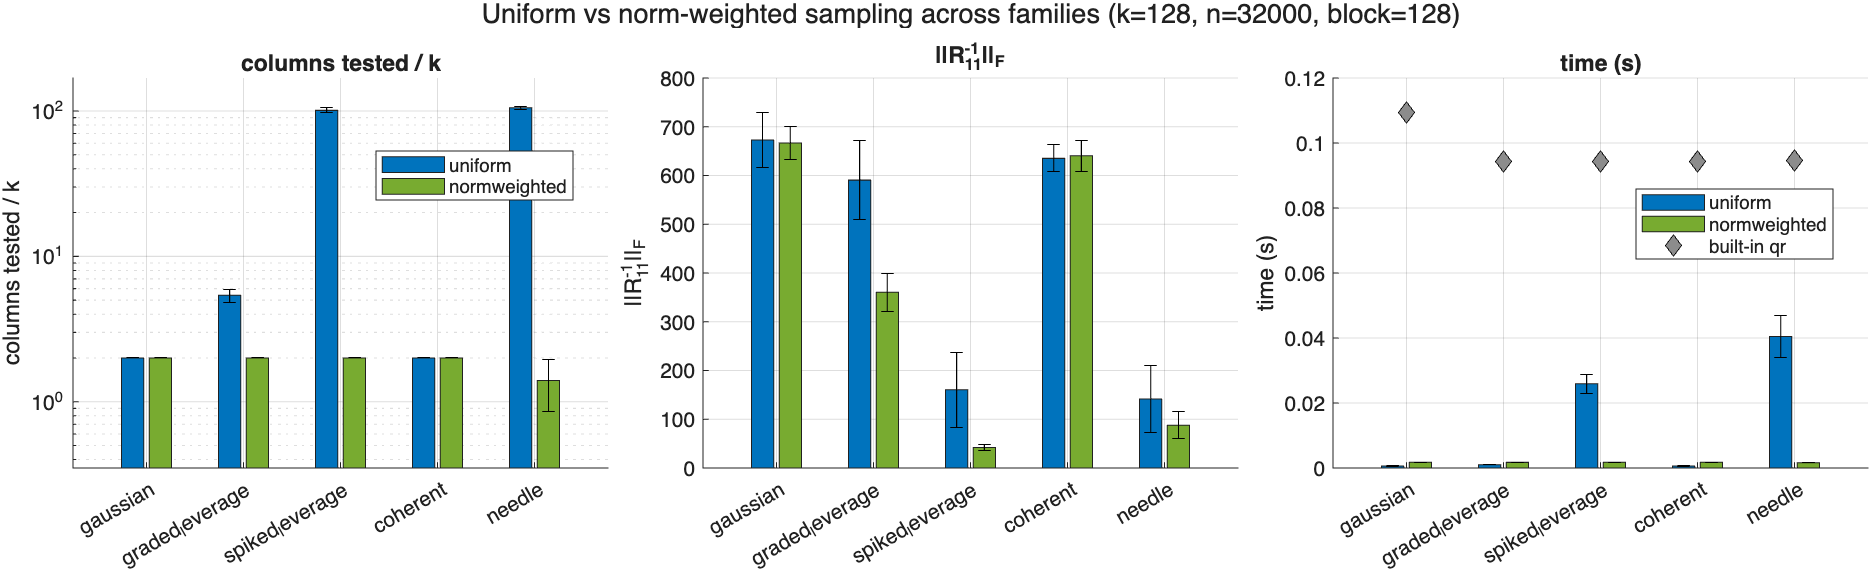
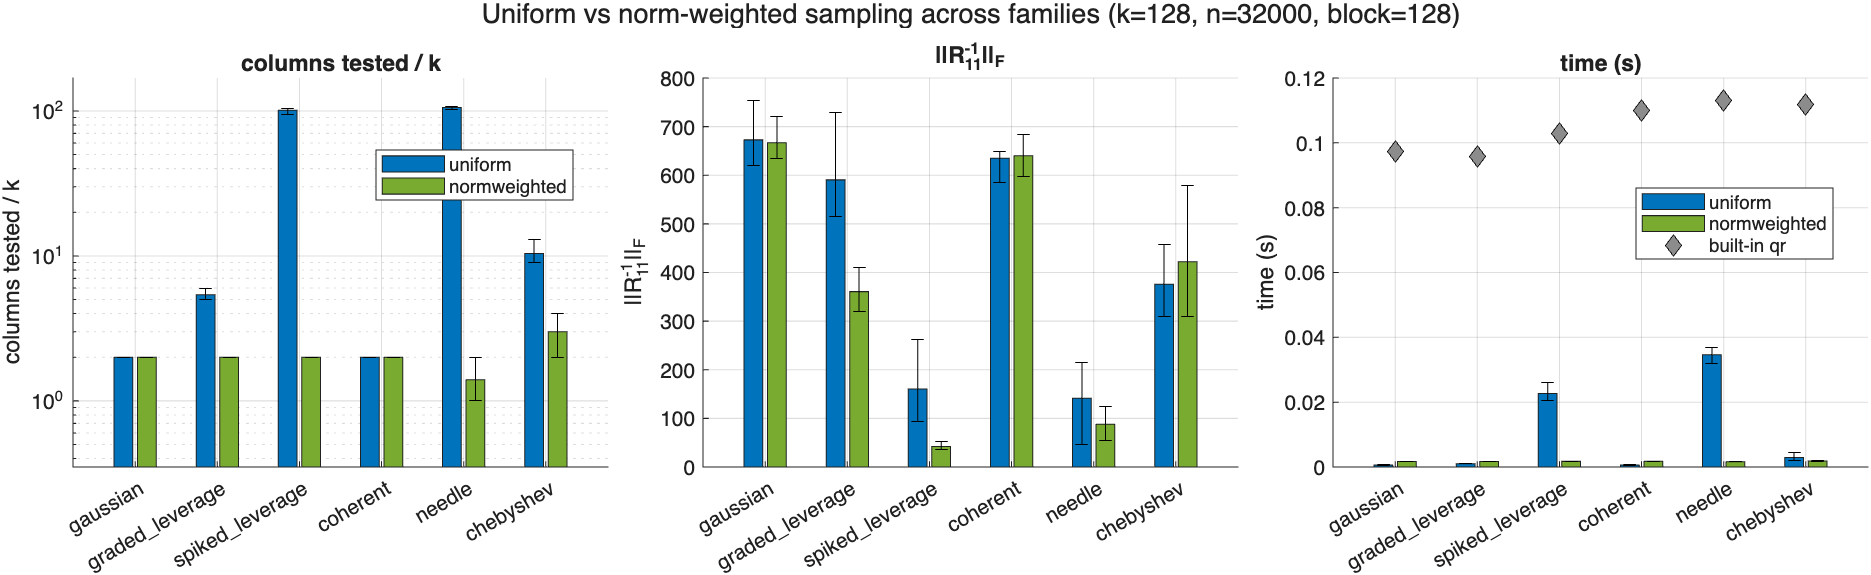
Sampling experiment: add applied chebyshev family; fix labels; min/max whiskers
- rand_test_matrix: new 'chebyshev' family -- a degree-(k-1) Chebyshev design
  matrix on n seeded-random points (polynomial least-squares / optimal design;
  selecting k columns = choosing k informative samples; edge-concentrated
  Christoffel leverage). Exact orthonormal rows, scales to large n.
- exp_sampling: include chebyshev (the applied family motivating the synthetic
  leverage profiles); kept out of scaling/rpqr where it just blends.
- plot_sampling: TickLabelInterpreter='none' so family names render verbatim
  (no more 'spiked_leverage' -> subscripted 'l'); error bars switched from
  +/-std to asymmetric min/max whiskers -- honest for floored/skewed quantities
  like tested/k (>= 1; the old +/-std dipped below 1 although no run is) and
  consistent with the min/max bands in the other figures.
- Refreshed fig_sampling_k{64,128,256}.png (5-seed).

diff --git a/matlab_rand/benchmark/rand_test_matrix.m b/matlab_rand/benchmark/rand_test_matrix.m
@@ -17,6 +17,11 @@ function [M, info] = rand_test_matrix(family, k, n, seed)
 %     'needle'          - ~k useful columns hidden among n near-null ones
 %                         (hardest for uniform sampling; the case where
 %                         norm-weighted sampling should help most).
+%     'chebyshev'       - applied structure: first k Chebyshev polynomials
+%                         sampled at n equispaced points (a polynomial
+%                         least-squares / interpolation design matrix).
+%                         Selecting columns = choosing k nodes from n; leverage
+%                         (the Christoffel function) concentrates near the ends.
 %
 %   info has fields .family, .k, .n, .leverage (1-by-n column squared norms).
 
@@ -57,6 +62,21 @@ switch lower(char(family))
         idx = randperm(n, ng);
         d(idx) = 1;
         W = (d .* randn(n, k));
+
+    case 'chebyshev'
+        % Applied structure: a degree-(k-1) Chebyshev design matrix on n random
+        % sample points in [-1,1] -- polynomial least-squares / optimal design,
+        % where selecting k of the n columns = picking the k most informative
+        % samples. Leverage (the Christoffel function) concentrates near the
+        % ends. Chebyshev polynomials are bounded by 1 on [-1,1] so the factor
+        % is well-scaled; orth makes the rows orthonormal (rank k).
+        x = sort(2 * rand(1, n) - 1);          % seeded random design points
+        B = ones(k, n);
+        if k >= 2; B(2, :) = x; end
+        for i = 3:k
+            B(i, :) = 2 * x .* B(i - 1, :) - B(i - 2, :);   % Chebyshev recurrence
+        end
+        W = B.';
 
     otherwise
         error('rand_test_matrix:UnknownFamily', 'Unknown family "%s".', family);

diff --git a/matlab_rand/benchmark/plot_rand_experiments.m b/matlab_rand/benchmark/plot_rand_experiments.m
@@ -200,12 +200,15 @@ fig = figure('Position', [100 100 1300 380], 'Color', 'w');
 tl = tiledlayout(fig, 1, 3, 'TileSpacing', 'compact', 'Padding', 'compact');
 for mi = 1:size(metrics, 1)
     ax = nexttile(tl); hold(ax, 'on');
-    mu = zeros(numel(fams), 2); er = zeros(numel(fams), 2);
+    set(ax, 'TickLabelInterpreter', 'none');   % family names verbatim (no TeX subscripts)
+    mu = zeros(numel(fams), 2); elo = zeros(numel(fams), 2); ehi = zeros(numel(fams), 2);
     for fi = 1:numel(fams)
         for si = 1:2
             samp = ["uniform", "normweighted"]; samp = samp(si);
             v = T.(metrics{mi, 1})(T.family == fams(fi) & T.sampling == samp);
-            mu(fi, si) = mean(v); er(fi, si) = std(v);
+            % min/max whiskers (not +/- std): honest for floored/skewed quantities
+            % like tested/k (>= 1), and matches the min/max bands in the other figures.
+            mu(fi, si) = mean(v); elo(fi, si) = mean(v) - min(v); ehi(fi, si) = max(v) - mean(v);
         end
     end
     cats = categorical(fams, fams);
@@ -214,7 +217,7 @@ for mi = 1:size(metrics, 1)
     b(2).FaceColor = C.normweighted; b(2).DisplayName = 'normweighted';
     for si = 1:2
         xc = b(si).XEndPoints;
-        errorbar(ax, xc, mu(:, si), er(:, si), 'k', 'linestyle', 'none', 'HandleVisibility', 'off');
+        errorbar(ax, xc, mu(:, si), elo(:, si), ehi(:, si), 'k', 'linestyle', 'none', 'HandleVisibility', 'off');
     end
     show_legend = (mi == 1);
     if strcmp(metrics{mi, 1}, 'time_s')   % overlay vendor-qr time per family

diff --git a/matlab_rand/benchmark/run_rand_experiments.m b/matlab_rand/benchmark/run_rand_experiments.m
@@ -116,7 +116,10 @@ end
 
 % ===========================================================================
 function exp_sampling(opt)
-families = {'gaussian', 'graded_leverage', 'spiked_leverage', 'coherent', 'needle'};
+% chebyshev is the applied family (polynomial least-squares / optimal design,
+% edge-concentrated leverage) -- included here to motivate the synthetic
+% leverage profiles; kept out of the scaling/rpqr suites where it just blends.
+families = {'gaussian', 'graded_leverage', 'spiked_leverage', 'coherent', 'needle', 'chebyshev'};
 k = opt.k; n = 32000; block = k;   % batched default block size
 samplings = {'uniform', 'normweighted'};
 rows = {};
